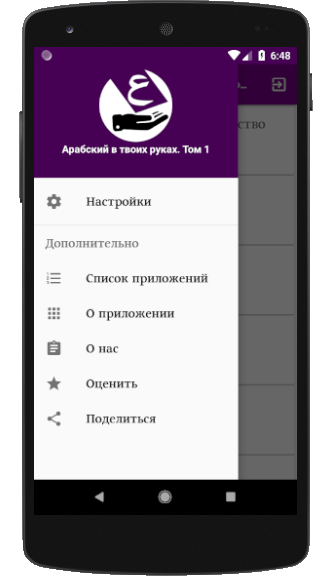
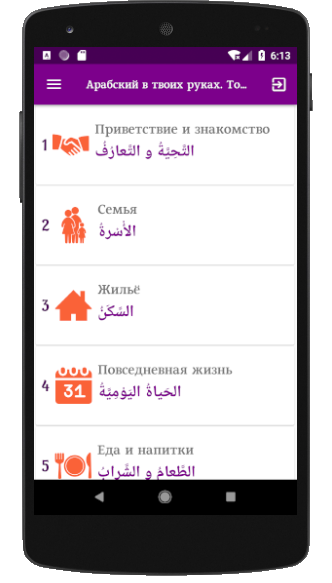
change file

Changed region(s): [[0.0904, 0.0617, 0.9036, 0.8336], [0.1205, 0.4631, 0.6325, 0.5557]]

diff --git a/app/src/main/java/jmapps/arabicinyourhands/Models/ModelMainChapters.java b/app/src/main/java/jmapps/arabicinyourhands/Models/ModelMainChapters.java
@@ -4,6 +4,7 @@ import jmapps.arabicinyourhands.R;
 
 public class ModelMainChapters {
 
+    private final int numberMainChapter;
     private final int iconMainChapter;
     private final int iconMainChapterWhite;
     private final String titleMainChapter;
@@ -11,64 +12,72 @@ public class ModelMainChapters {
     private final String setContentMainNumber;
 
     public static final ModelMainChapters[] modelMainChapters = {
-        new ModelMainChapters(R.drawable.ic_svg_hand_shake, R.drawable.ic_svg_hand_shake_white,
+        new ModelMainChapters(1, R.drawable.ic_svg_hand_shake, R.drawable.ic_svg_hand_shake_white,
                 "Приветствие и знакомство", "التَّحِيَّةُ و التَّعارُفُ",
         "hand_shake"),
-        new ModelMainChapters(R.drawable.ic_svg_family, R.drawable.ic_svg_family_white,
+        new ModelMainChapters(2, R.drawable.ic_svg_family, R.drawable.ic_svg_family_white,
                 "Семья", "اﻷْسْرةُ",
                 "family"),
-        new ModelMainChapters(R.drawable.ic_svg_home, R.drawable.ic_svg_home_white,
+        new ModelMainChapters(3, R.drawable.ic_svg_home, R.drawable.ic_svg_home_white,
                 "Жильё", "السَّكَنُ",
                 "home"),
-        new ModelMainChapters(R.drawable.ic_svg_daily, R.drawable.ic_svg_daily_white,
+        new ModelMainChapters(4, R.drawable.ic_svg_daily, R.drawable.ic_svg_daily_white,
                 "Повседневная жизнь", "الحَياةُ اليَوْمِيَّةُ",
                 "daily"),
-        new ModelMainChapters(R.drawable.ic_svg_eat, R.drawable.ic_svg_eat_white,
+        new ModelMainChapters(5, R.drawable.ic_svg_eat, R.drawable.ic_svg_eat_white,
                 "Еда и напитки", "الطَّعامُ و الشَّرابُ",
                 "eat"),
-        new ModelMainChapters(R.drawable.ic_svg_prayer, R.drawable.ic_svg_prayer_white,
+        new ModelMainChapters(6, R.drawable.ic_svg_prayer, R.drawable.ic_svg_prayer_white,
                 "Молитва", "الصَّلاةُ",
                 "prayer"),
-        new ModelMainChapters(R.drawable.ic_svg_studies, R.drawable.ic_svg_studies_white,
+        new ModelMainChapters(7, R.drawable.ic_svg_studies, R.drawable.ic_svg_studies_white,
                 "Учёба", "الدِّراسَةُ",
                 "studies"),
-        new ModelMainChapters(R.drawable.ic_svg_work, R.drawable.ic_svg_work_white,
+        new ModelMainChapters(8, R.drawable.ic_svg_work, R.drawable.ic_svg_work_white,
                 "Работа", "العَمَلُ",
                 "work"),
-        new ModelMainChapters(R.drawable.ic_svg_shopping, R.drawable.ic_svg_shopping_white,
+        new ModelMainChapters(9, R.drawable.ic_svg_shopping, R.drawable.ic_svg_shopping_white,
                 "Покупки", "التَّسَوُّقُ",
                 "shopping"),
-        new ModelMainChapters(R.drawable.ic_svg_weather, R.drawable.ic_svg_weather_white,
+        new ModelMainChapters(10, R.drawable.ic_svg_weather, R.drawable.ic_svg_weather_white,
                 "Погода", "الجَوُّ",
                 "weather"),
-        new ModelMainChapters(R.drawable.ic_svg_countries, R.drawable.ic_svg_countries_white,
+        new ModelMainChapters(11, R.drawable.ic_svg_countries, R.drawable.ic_svg_countries_white,
                 "Люди и страны", "النَّاسُ  واﻷَماكِنُ",
                 "countries"),
-        new ModelMainChapters(R.drawable.ic_svg_intertament, R.drawable.ic_svg_intertament_white,
+        new ModelMainChapters(12, R.drawable.ic_svg_intertament, R.drawable.ic_svg_intertament_white,
                 "Развлечения", "الهِواياتُ",
                 "intertament"),
-        new ModelMainChapters(R.drawable.ic_svg_travels, R.drawable.ic_svg_travels_white,
+        new ModelMainChapters(13, R.drawable.ic_svg_travels, R.drawable.ic_svg_travels_white,
                 "Путешествие", "السَّفَرُ",
                 "travels"),
-        new ModelMainChapters(R.drawable.ic_svg_hadj, R.drawable.ic_svg_hadj_white,
+        new ModelMainChapters(14, R.drawable.ic_svg_hadj, R.drawable.ic_svg_hadj_white,
                 "Хадж и умра", "الحَجُّ و العُمْرَةُ",
                 "hadj"),
-        new ModelMainChapters(R.drawable.ic_svg_health, R.drawable.ic_svg_health_white,
+        new ModelMainChapters(15, R.drawable.ic_svg_health, R.drawable.ic_svg_health_white,
                 "Здоровье", "الصِّحَّةُ",
                 "health"),
-        new ModelMainChapters(R.drawable.ic_svg_holiday, R.drawable.ic_svg_holiday_white,
+        new ModelMainChapters(16, R.drawable.ic_svg_holiday, R.drawable.ic_svg_holiday_white,
                 "Каникулы", "العُطْلَةُ",
                 "holiday")
     };
 
-    private ModelMainChapters(int iconMainChapter, int iconMainChapterWhite,
-                              String titleMainChapter, String subTitleMainChapter,
+    private ModelMainChapters(int numberMainChapter,
+                              int iconMainChapter,
+                              int iconMainChapterWhite,
+                              String titleMainChapter,
+                              String subTitleMainChapter,
                               String setContentMainNumber) {
+        this.numberMainChapter = numberMainChapter;
         this.iconMainChapter = iconMainChapter;
         this.iconMainChapterWhite = iconMainChapterWhite;
         this.titleMainChapter = titleMainChapter;
         this.subTitleMainChapter = subTitleMainChapter;
         this.setContentMainNumber = setContentMainNumber;
+    }
+
+    public int getNumberMainChapter() {
+        return numberMainChapter;
     }
 
     public int getIconMainChapter() {

diff --git a/app/src/main/java/jmapps/arabicinyourhands/Adapters/AdapterContentsLessons.java b/app/src/main/java/jmapps/arabicinyourhands/Adapters/AdapterContentsLessons.java
@@ -41,6 +41,7 @@ public class AdapterContentsLessons extends RecyclerView.Adapter<HolderContentsL
         return new HolderContentsLessons(itemView);
     }
 
+    @SuppressLint("ResourceAsColor")
     @Override
     public void onBindViewHolder(@NonNull final HolderContentsLessons holder, @SuppressLint("RecyclerView") final int position) {
         final String strContentArabic = mContentInChapters.get(position).getLessonsContentArabic();
@@ -50,24 +51,23 @@ public class AdapterContentsLessons extends RecyclerView.Adapter<HolderContentsL
         holder.tvLessonsContentArabic.setText(Html.fromHtml(strContentArabic));
         holder.tvLessonsContentRussian.setText(Html.fromHtml(strContentRussian));
 
+        holder.cvContentLesson.setTag(mContentInChapters.get(position));
         holder.cvContentLesson.setOnClickListener(new View.OnClickListener() {
             @Override
             public void onClick(View view) {
                 ModelContentsLessons modelContentsLessons = (ModelContentsLessons) view.getTag();
-                mContentActivity.playOnly(modelContentsLessons.getLessonsNameAudio());
+                mContentActivity.playOnly(modelContentsLessons);
                 notifyDataSetChanged();
                 currentPosition = position;
             }
         });
 
-        // устанавливаем значение цвета для айтема
         holder.cvContentLesson.setBackgroundColor(
-                (position == currentPosition) ? Color.LTGRAY : Color.WHITE);
+                (position == currentPosition) ? 0x20790087 : 0xFFFFFFFF);
 
         holder.cvContentLesson.setOnLongClickListener(new View.OnLongClickListener() {
             @Override
             public boolean onLongClick(View view) {
-                // Кнопка КОПИРОВАТЬ
                 ClipboardManager clipboard = (ClipboardManager) view.getContext()
                         .getSystemService(Context.CLIPBOARD_SERVICE);
                 ClipData clip = ClipData.newPlainText("",
@@ -83,12 +83,8 @@ public class AdapterContentsLessons extends RecyclerView.Adapter<HolderContentsL
         });
     }
 
-    // метод, устанавливающий цвет на айтем
-    public void setItemSelected(int position) {
-        int tmp = currentPosition;
+    public void setItemBackground(int position) {
         currentPosition = position;
-        if (tmp != -1) notifyItemChanged(tmp); // восстанавливаем цвет ранее выделенного
-        if (position != -1) notifyItemChanged(position); // выделяем новый
     }
 
     @Override

diff --git a/app/src/main/java/jmapps/arabicinyourhands/Adapters/AdapterMainChapters.java b/app/src/main/java/jmapps/arabicinyourhands/Adapters/AdapterMainChapters.java
@@ -40,12 +40,14 @@ public class AdapterMainChapters extends RecyclerView.Adapter<HolderMainChapters
     @Override
     public void onBindViewHolder(@NonNull final HolderMainChapters holder,
                                  @SuppressLint("RecyclerView") final int position) {
+        final int numberChapter = mModelMainChapters.get(position).getNumberMainChapter();
         final int pathIconName = mModelMainChapters.get(position).getIconMainChapter();
         final int pathIconNameWhite = mModelMainChapters.get(position).getIconMainChapterWhite();
         final String strTitleName = mModelMainChapters.get(position).getTitleMainChapter();
         final String strSubTitleName = mModelMainChapters.get(position).getSubTitleMainChapter();
         final String strSetContentNumber = mModelMainChapters.get(position).getSetContentMainNumber();
 
+        holder.tvNumberMainChapter.setText(String.valueOf(numberChapter));
         holder.iconMainChapter.setBackgroundResource(pathIconName);
         holder.titleMainChapter.setText(strTitleName);
         holder.subTitleMainChapter.setText(Html.fromHtml("<b>" + strSubTitleName + "</b>"));
@@ -59,9 +61,11 @@ public class AdapterMainChapters extends RecyclerView.Adapter<HolderMainChapters
         });
     }
 
-    private void openChapterLessonActivity(HolderMainChapters holder, int forContentExercises,
+    private void openChapterLessonActivity(HolderMainChapters holder,
+                                           int forContentExercises,
                                            String forContentChaptersLessons,
-            String titleChapterLessons, int iconChapterLesson) {
+                                           String titleChapterLessons,
+                                           int iconChapterLesson) {
         Intent openChapterActivity = new Intent(holder.itemView.getContext(), ChaptersLessonsActivity.class);
         openChapterActivity.putExtra(keyForContentExercises, forContentExercises);
         openChapterActivity.putExtra(keyForContentChaptersLessons, forContentChaptersLessons);

diff --git a/app/src/main/java/jmapps/arabicinyourhands/ContentsLessonsActivity.java b/app/src/main/java/jmapps/arabicinyourhands/ContentsLessonsActivity.java
@@ -136,7 +136,7 @@ public class ContentsLessonsActivity extends AppCompatActivity implements
         }
     }
 
-    public void playOnly(String nameAudio) {
+    public void playOnly(ModelContentsLessons modelContentsLessons) {
         if (mediaPlayer != null) {
             mediaPlayer.release();
             mediaPlayer = null;
@@ -146,7 +146,7 @@ public class ContentsLessonsActivity extends AppCompatActivity implements
             tbPlayAllAudio.setChecked(false);
         }
 
-        int resID = getResources().getIdentifier(nameAudio,
+        int resID = getResources().getIdentifier(modelContentsLessons.getLessonsNameAudio(),
                 "raw", "jmapps.arabicinyourhands");
 
         mediaPlayer = MediaPlayer.create(this, resID);
@@ -166,7 +166,8 @@ public class ContentsLessonsActivity extends AppCompatActivity implements
                 } else {
                     tbPlayAllAudio.setChecked(false);
                     currentIndex = 0;
-                    adapterContentsLessons.setItemSelected(-1);
+                    adapterContentsLessons.setItemBackground(currentIndex - 1);
+                    adapterContentsLessons.notifyDataSetChanged();
                 }
             }
         });
@@ -179,7 +180,8 @@ public class ContentsLessonsActivity extends AppCompatActivity implements
         }
 
         rvLessonContent.smoothScrollToPosition(currentIndex);
-        adapterContentsLessons.setItemSelected(currentIndex);
+        adapterContentsLessons.setItemBackground(currentIndex);
+        adapterContentsLessons.notifyDataSetChanged();
 
         int resID = getResources().getIdentifier(
                 lessonsContent.get(currentIndex).getLessonsNameAudio(),

diff --git a/app/src/main/java/jmapps/arabicinyourhands/Models/ModelAboutApp.java b/app/src/main/java/jmapps/arabicinyourhands/Models/ModelAboutApp.java
@@ -11,7 +11,7 @@ public class ModelAboutApp {
     public static ModelAboutApp[] aboutAppContent = {
             new ModelAboutApp(R.drawable.ic_svg_code, "В приложении более 3 тысяч строк кода"),
             new ModelAboutApp(R.drawable.ic_svg_database, "1885 пунктов в базе данных"),
-            new ModelAboutApp(R.drawable.ic_svg_mp3, "2403 нарезок мр3 файлов"),
+            new ModelAboutApp(R.drawable.ic_svg_mp3, "2403 нарезки мр3 файлов"),
             new ModelAboutApp(R.drawable.ic_svg_coffee, "Неизвестное количество испитых чашек кофе"),
             new ModelAboutApp(R.drawable.ic_svg_layers, "Все иконки взяты с сайта www.flaticon.com"),
             new ModelAboutApp(R.drawable.ic_svg_translation, "Идея и текстовая версия взяты с сайта www.ar-ru.ru/arabiya")

diff --git a/app/src/main/java/jmapps/arabicinyourhands/ViewHolders/HolderMainChapters.java b/app/src/main/java/jmapps/arabicinyourhands/ViewHolders/HolderMainChapters.java
@@ -9,6 +9,7 @@ import jmapps.arabicinyourhands.R;
 
 public class HolderMainChapters extends RecyclerView.ViewHolder {
 
+    public final TextView tvNumberMainChapter;
     public final ImageView iconMainChapter;
     public final TextView titleMainChapter;
     public final TextView subTitleMainChapter;
@@ -16,6 +17,7 @@ public class HolderMainChapters extends RecyclerView.ViewHolder {
     public HolderMainChapters(View itemView) {
         super(itemView);
 
+        tvNumberMainChapter = itemView.findViewById(R.id.tv_number_main_chapter);
         iconMainChapter = itemView.findViewById(R.id.iv_icon_main_chapter);
         titleMainChapter = itemView.findViewById(R.id.tv_title_main_chapter);
         subTitleMainChapter = itemView.findViewById(R.id.tv_subtitle_main_chapter);

diff --git a/app/src/main/java/jmapps/arabicinyourhands/MainChaptersActivity.java b/app/src/main/java/jmapps/arabicinyourhands/MainChaptersActivity.java
@@ -40,7 +40,6 @@ public class MainChaptersActivity extends AppCompatActivity implements
 
     public static SharedPreferences mPreferences;
     public static SharedPreferences.Editor mEditor;
-
     public static SQLiteDatabase sqLiteDatabase;
 
     private DrawerLayout drawer;
